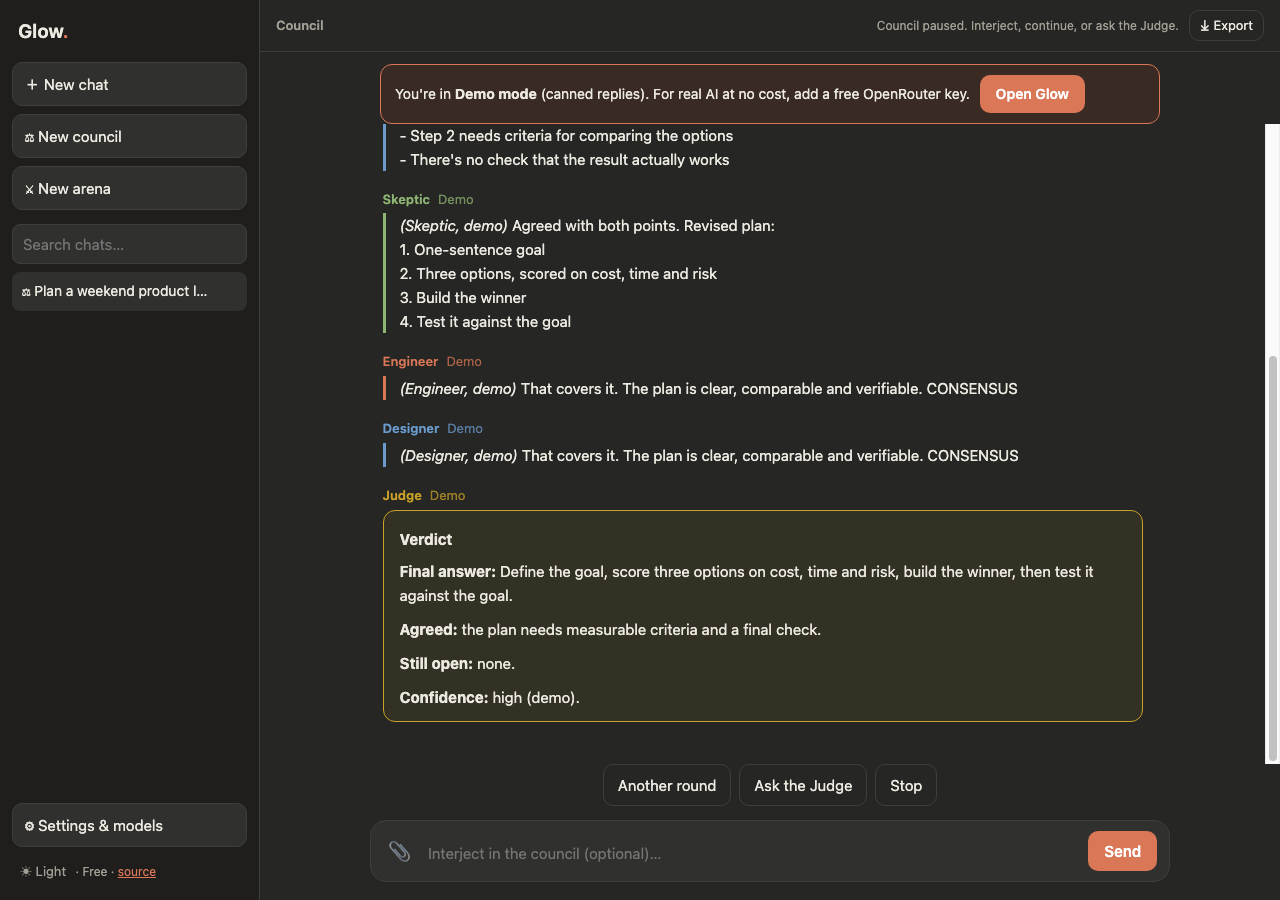
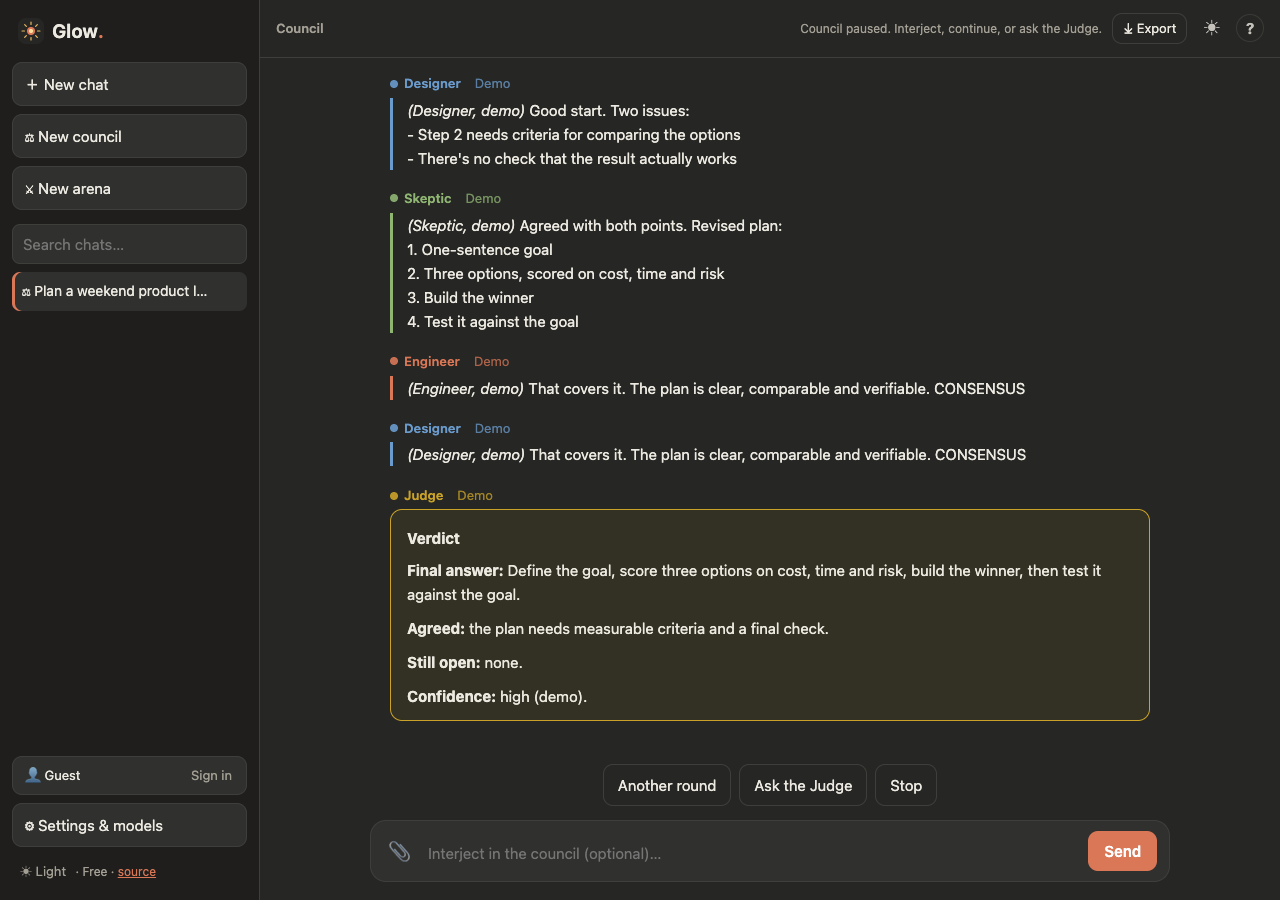
glow v0.4.0: card copy (sign in / guest, tour, themes) and refreshed screenshot

diff --git a/index.html b/index.html
@@ -262,13 +262,13 @@
             <div class="project-content">
               <span class="project-category">Software</span>
               <h3 class="project-title">Glow</h3>
-              <p class="project-description"><strong>Glow</strong> &mdash; from a spark to something real. A free browser prototype for exploring ideas and shaping plans with multiple AI perspectives. <strong>Council</strong>: 2&ndash;3 agents discuss and review a task; a Judge summarizes agreements, open questions and a final answer. <strong>Arena</strong>: compare models side by side and record your preferences. Includes second opinions, text/code attachments, chat search, Markdown export and an installable PWA. Supports free-tier OpenRouter models, local Ollama and compatible APIs. Chats are stored in your browser; prompts and credentials go to the provider you select. AI output still needs human verification.</p>
+              <p class="project-description"><strong>Glow</strong> &mdash; from a spark to something real. Explore ideas and shape plans with multiple AI perspectives. <strong>Sign in</strong> with a free Puter account for real AI models (GPT, Claude, Gemini, DeepSeek) with no API key, and your chats sync across devices; or <strong>continue as a guest</strong> with demo replies, your own OpenRouter key or local Ollama. <strong>Council</strong>: 2&ndash;3 agents discuss a task and a Judge summarizes agreements, open questions and a final answer. <strong>Arena</strong>: compare models side by side and vote. Includes a guided tour, light/dark themes, starter prompts, second opinions, attachments, search, Markdown export and an installable PWA. Signed-in AI uses each person's own free Puter allowance; AI output still needs human verification.</p>
               <div class="project-tags">
                 <span class="tag">multi-agent</span>
                 <span class="tag">AI council</span>
                 <span class="tag">model arena</span>
-                <span class="tag">free models</span>
-                <span class="tag">Ollama</span>
+                <span class="tag">free AI sign-in</span>
+                <span class="tag">guided tour</span>
                 <span class="tag">PWA</span>
               </div>
               <div class="project-links">
